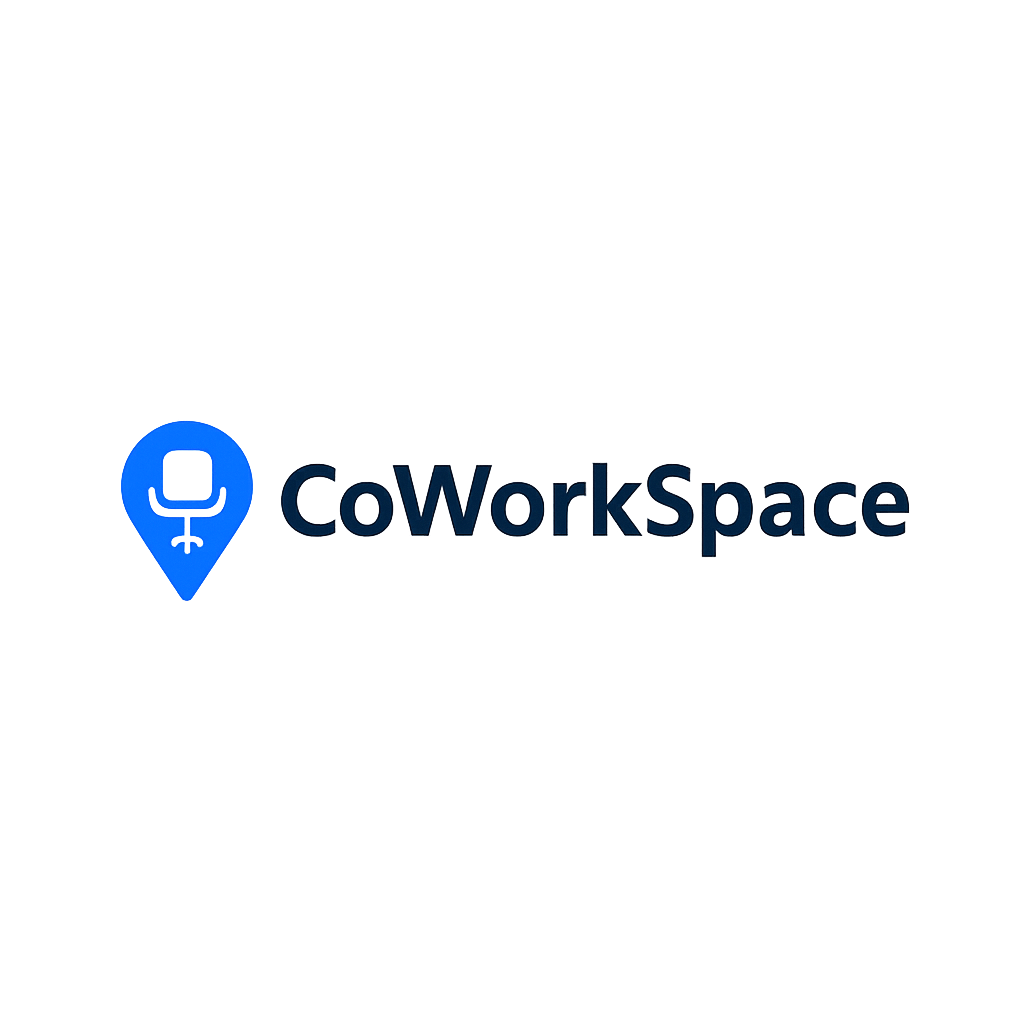
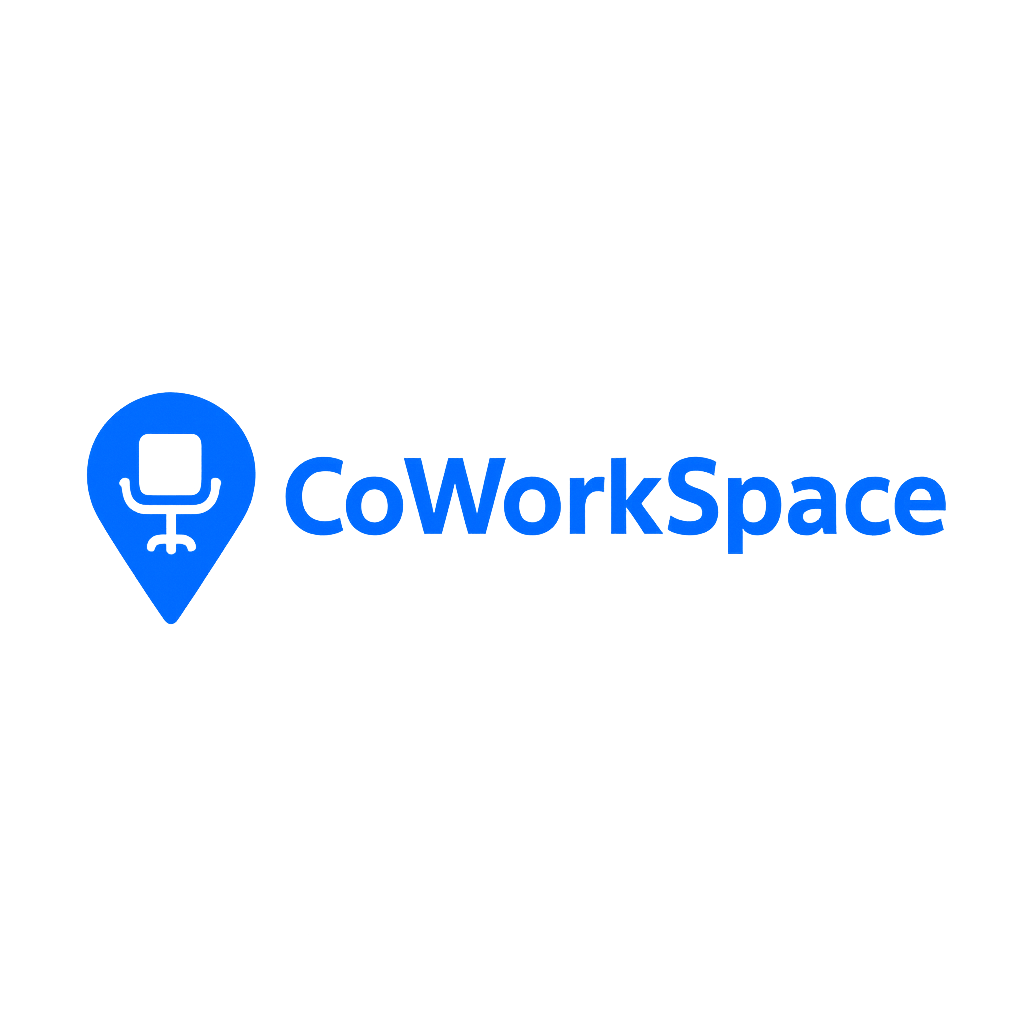
AA

Changed region(s): [[0.25, 0.4375, 0.9375, 0.5625], [0.0625, 0.375, 0.25, 0.625]]

diff --git a/frontend/dashboard.html b/frontend/dashboard.html
@@ -8,11 +8,9 @@
   <link href="css/style.css" rel="stylesheet" />
 </head>
 <body>
-  <nav class="navbar navbar-expand-lg navbar-light bg-white shadow-sm navbar-dashboard">
+  <nav class="navbar navbar-expand-lg navbar-dark bg-primary shadow-sm">
     <div class="container">
-      <a class="navbar-brand" href="index.html">
-        <img src="img/banner1.png" alt="CoWorkSpace">
-      </a>
+      <a class="navbar-brand" href="index.html">CoWorkSpace</a>
       
       <!-- Nome e ruolo utente -->
       <div class="d-flex align-items-center ms-3">

diff --git a/frontend/css/style.css b/frontend/css/style.css
@@ -514,14 +514,3 @@ button.btn-lg {
     flex-direction: column;
   }
 }
-
-.navbar-dashboard {
-  padding-top: 0.5rem;
-  padding-bottom: 0.5rem;
-}
-
-.navbar-dashboard .navbar-brand img {
-  height: 50px; /* Imposta un'altezza di base desiderata */
-  max-height: 100%; /* Assicura che l'immagine si adatti e non superi l'altezza del suo contenitore */
-  width: auto; /* Mantiene le proporzioni corrette */
-}
